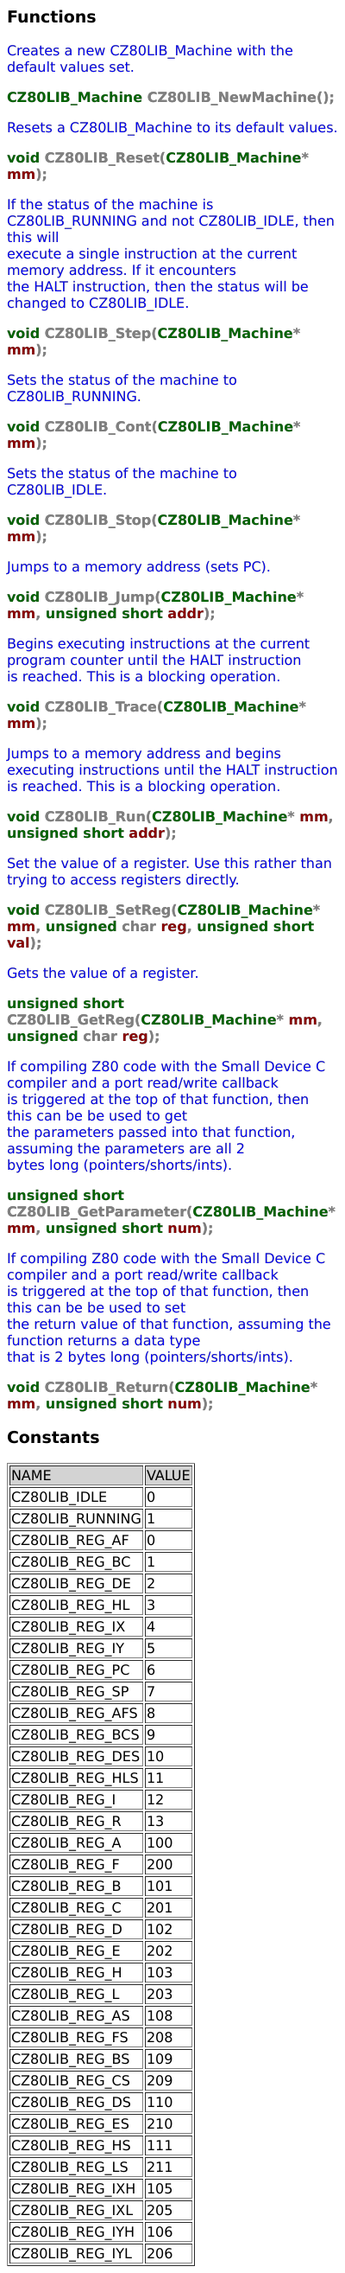
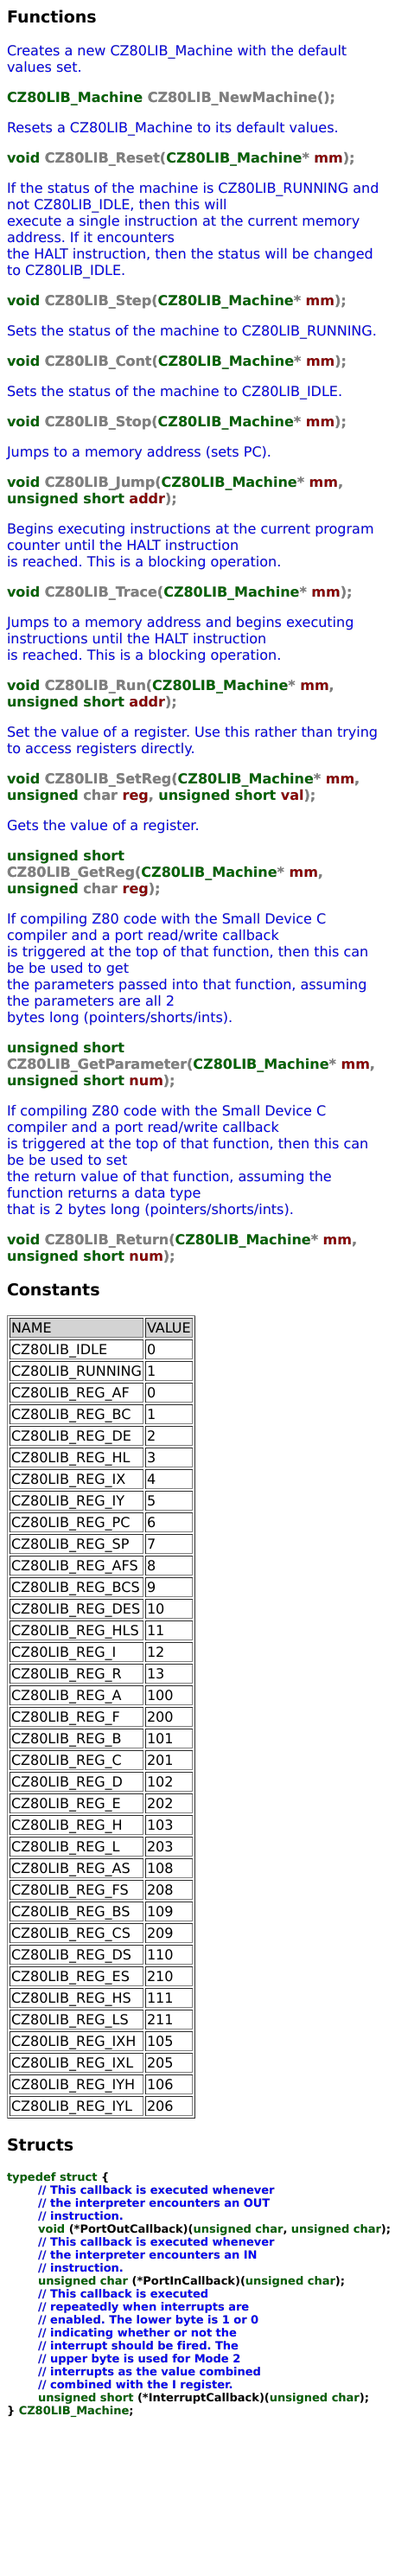
Wed 27 Jan 15:40:49 EST 2021

Changed region(s): [[0.0, 0.0, 0.96, 0.9981]]

diff --git a/doc/doc.html b/doc/doc.html
@@ -3,15 +3,28 @@
 <textarea style='display: none;' id='headerFile'>
 #ifndef __CZ80LIB_H__
 #define __CZ80LIB_H__
-//Structs
-typedef struct {
+typedef struct { //!show struct
 	int T0, T1, ST0, ST1, INT_ENABLED, INT_MODE, TABLE, STATUS;
 	int REGS[14];
 	unsigned char RAM[65536];
-	void (*PortOutCallback)(unsigned char, unsigned char);
-	unsigned char (*PortInCallback)(unsigned char);
-	unsigned short (*InterruptCallback)(unsigned char mode);
-} CZ80LIB_Machine;
+	////!show struct This callback is executed whenever
+	////!show struct the interpreter encounters an OUT
+	////!show struct instruction.
+	void (*PortOutCallback)(unsigned char, unsigned char); //!show struct
+	////!show struct This callback is executed whenever
+	////!show struct the interpreter encounters an IN
+	////!show struct instruction.
+	unsigned char (*PortInCallback)(unsigned char); //!show struct
+	////!show struct This callback is executed
+	////!show struct repeatedly when interrupts are
+	////!show struct enabled. The lower byte is 1 or 0
+	////!show struct indicating whether or not the
+	////!show struct interrupt should be fired. The
+	////!show struct upper byte is used for Mode 2
+	////!show struct interrupts as the value combined
+	////!show struct combined with the I register.
+	unsigned short (*InterruptCallback)(unsigned char); //!show struct
+} CZ80LIB_Machine; //!show struct
 //Instruction info
 typedef struct {
 	unsigned char OpCode, Table;
@@ -157,6 +170,7 @@ var $ = function(q) {return document.querySelector(q);}
 var headerFile = $("#headerFile").value.split("\n");
 var entriesToDisplay = new Array(0);
 var constantsToDisplay = new Array(0);
+var structsToDisplay = new Array(0);
 for (var i = 0; i < headerFile.length; i++) {
 	if (headerFile[i].trim().substr(0, 7) == "extern ") {
 		var signature = headerFile[i].replace("extern ", "");
@@ -171,6 +185,10 @@ for (var i = 0; i < headerFile.length; i++) {
 	if (headerFile[i].trim().substr(0, f.length) == f) {
 		f = headerFile[i].split(" ");
 		constantsToDisplay.push({'name': f[1], 'value': f[2]});
+	}
+	f = "//!show struct";
+	if (headerFile[i].replace(f, "") != headerFile[i]) {
+		structsToDisplay.push(headerFile[i].replace(f, ""));
 	}
 }
 var div = document.createElement("div");
@@ -207,6 +225,29 @@ for (var i = -1; i < constantsToDisplay.length; i++) {
 }
 div.appendChild(tbl);
 document.body.appendChild(div);
+
+var h33 = document.createElement("h3");
+h33.style.color = "black";
+h33.innerHTML = "<b>Structs</b>";
+document.body.appendChild(h33);
+var txt = "";
+for (var i = 0; i < structsToDisplay.length; i++) {
+	if (structsToDisplay[i].trim().substr(0, 2) == "//") {
+		txt += "<b style='color: blue;'>" + structsToDisplay[i] + "</b>\n";
+	} else {
+		txt += "<b>" + structsToDisplay[i] + "</b>\n";
+	}
+}
+txt = addColor(txt, "void", "darkgreen");
+txt = addColor(txt, "unsigned", "darkgreen");
+txt = addColor(txt, "short", "darkgreen");
+txt = addColor(txt, "char", "darkgreen");
+txt = addColor(txt, "CZ80LIB_Machine", "darkgreen");
+txt = addColor(txt, "typedef", "darkgreen");
+txt = addColor(txt, "struct ", "darkgreen");
+var pre = document.createElement("pre");
+pre.innerHTML = txt;
+document.body.appendChild(pre);
 </script>
 </body>
 </html>

diff --git a/src/CZ80LIB.H b/src/CZ80LIB.H
@@ -1,14 +1,27 @@
 #ifndef __CZ80LIB_H__
 #define __CZ80LIB_H__
-//Structs
-typedef struct {
+typedef struct { //!show struct
 	int T0, T1, ST0, ST1, INT_ENABLED, INT_MODE, TABLE, STATUS;
 	int REGS[14];
 	unsigned char RAM[65536];
-	void (*PortOutCallback)(unsigned char, unsigned char);
-	unsigned char (*PortInCallback)(unsigned char);
-	unsigned short (*InterruptCallback)(unsigned char mode);
-} CZ80LIB_Machine;
+	////!show struct This callback is executed whenever
+	////!show struct the interpreter encounters an OUT
+	////!show struct instruction.
+	void (*PortOutCallback)(unsigned char, unsigned char); //!show struct
+	////!show struct This callback is executed whenever
+	////!show struct the interpreter encounters an IN
+	////!show struct instruction.
+	unsigned char (*PortInCallback)(unsigned char); //!show struct
+	////!show struct This callback is executed
+	////!show struct repeatedly when interrupts are
+	////!show struct enabled. The lower byte is 1 or 0
+	////!show struct indicating whether or not the
+	////!show struct interrupt should be fired. The
+	////!show struct upper byte is used for Mode 2
+	////!show struct interrupts as the value combined
+	////!show struct combined with the I register.
+	unsigned short (*InterruptCallback)(unsigned char); //!show struct
+} CZ80LIB_Machine; //!show struct
 //Instruction info
 typedef struct {
 	unsigned char OpCode, Table;
